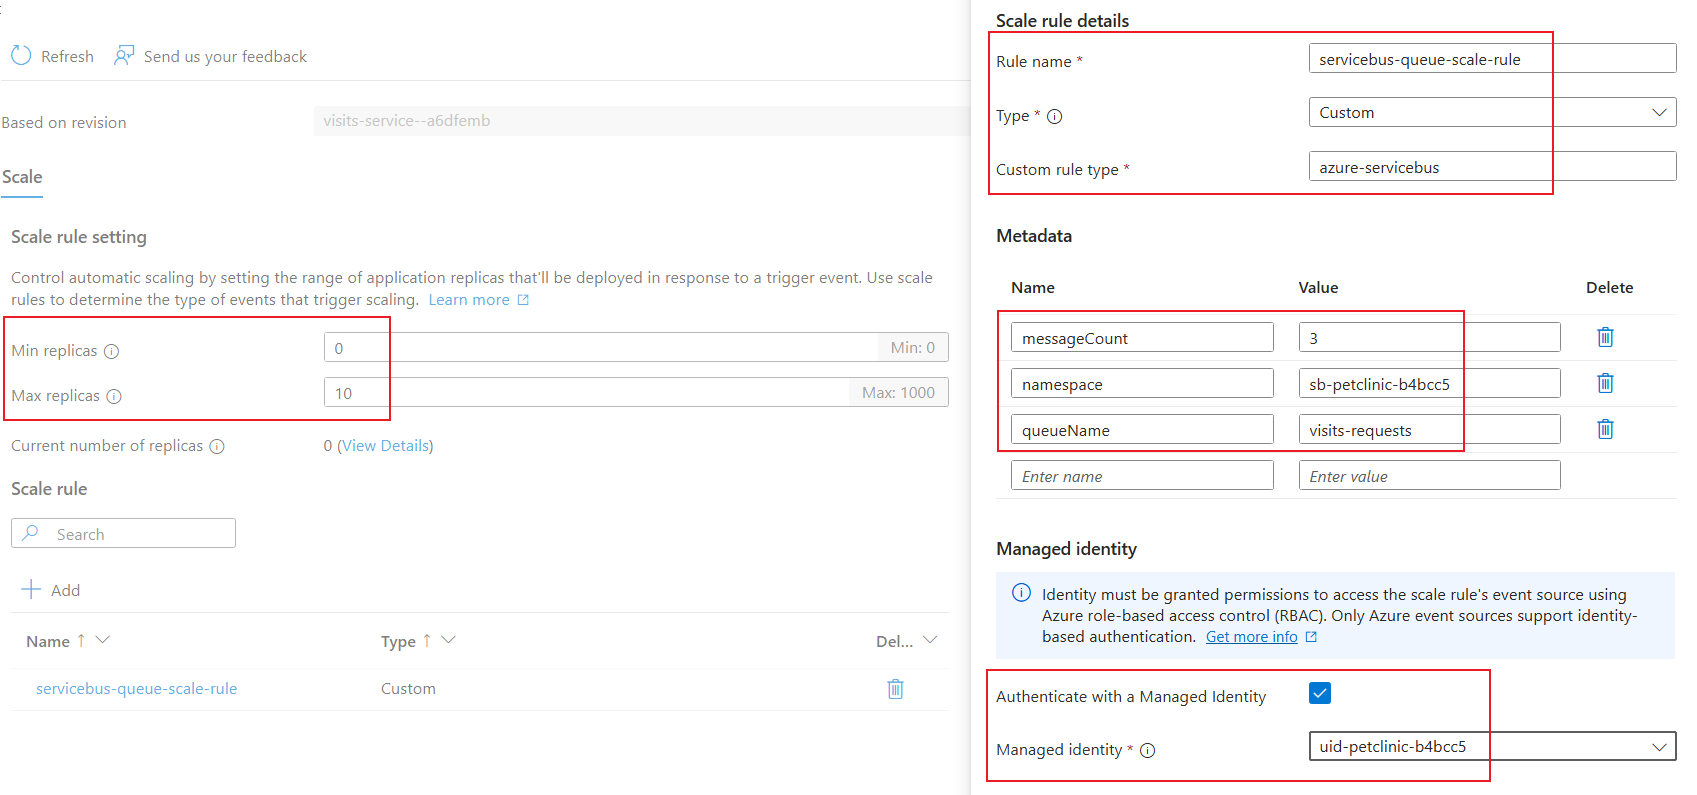
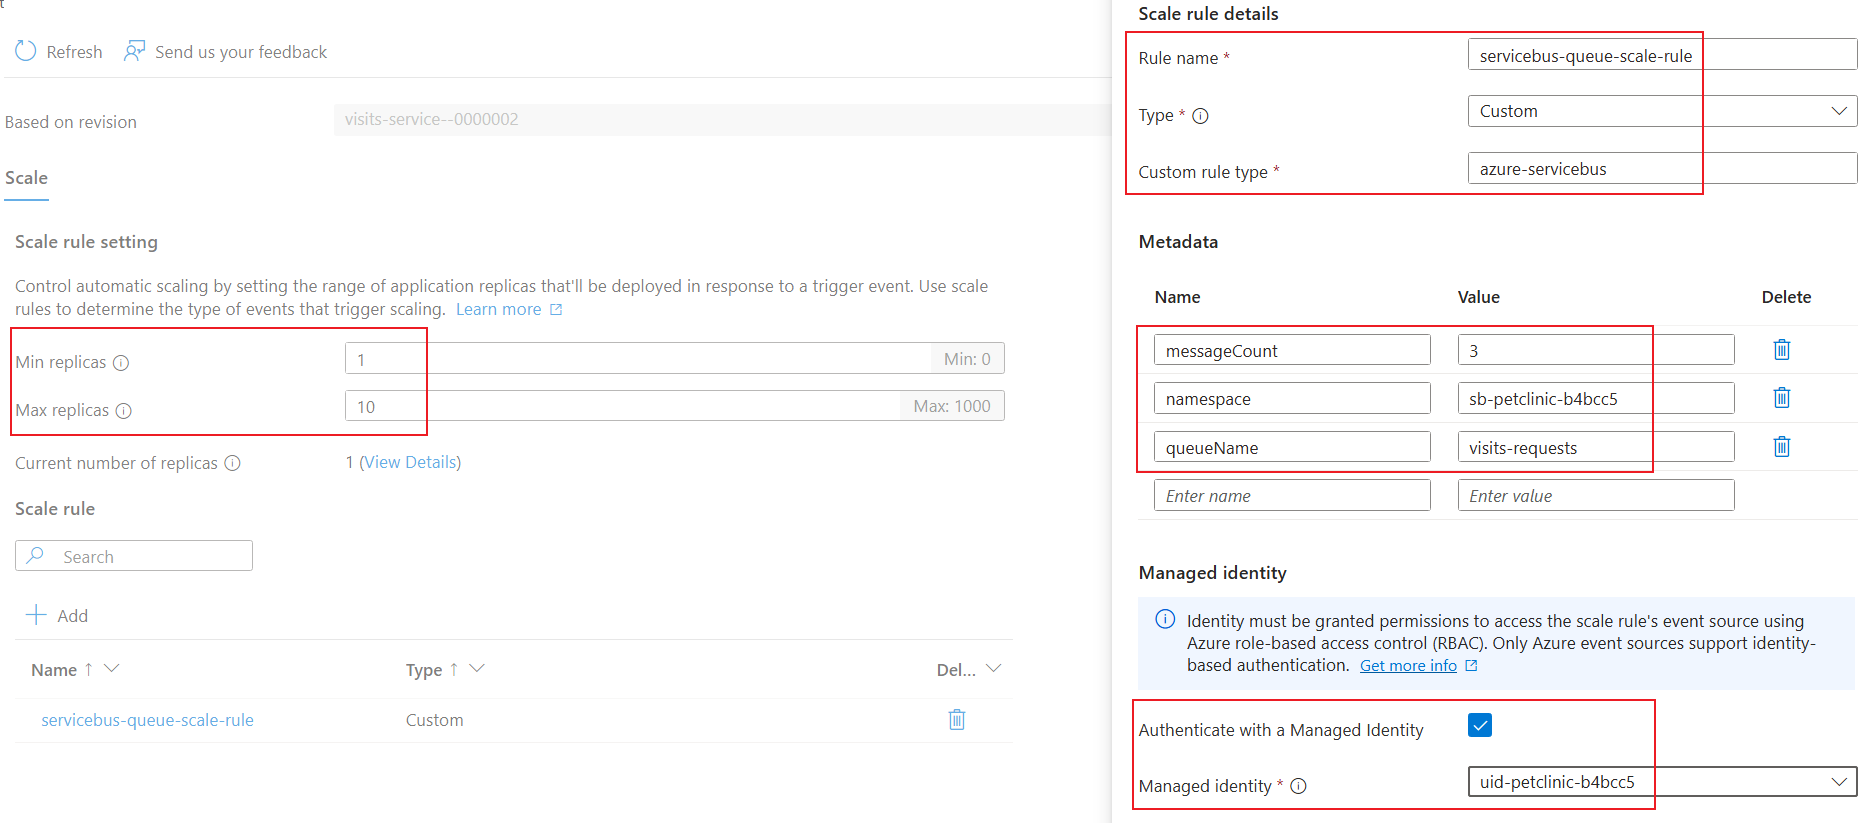
Fix: visits-service scale down to one, not zero (#103)
## Purpose

If `visits-service` scales down to zero, we will meet the error `503
Service Unavailable` when calling it via api-gateway.
This is because that the spring cloud gateway internally use Eureka
Service Discovery to discover the instance. When scaled to zero, it will
be considered as no such instance.

## Does this introduce a breaking change?
<!-- Mark one with an "x". -->
```
[ ] Yes
[ ] No
```

## Pull Request Type
What kind of change does this Pull Request introduce?

<!-- Please check the one that applies to this PR using "x". -->
```
[ ] Bugfix
[ ] Feature
[ ] Code style update (formatting, local variables)
[ ] Refactoring (no functional changes, no api changes)
[ ] Documentation content changes
[ ] Other... Please describe:
```

## How to Test
*  Get the code

```
git clone [repo-address]
cd [repo-name]
git checkout [branch-name]
npm install
```

* Test the code
<!-- Add steps to run the tests suite and/or manually test -->
```
```

## What to Check
Verify that the following are valid
* ...

## Other Information
<!-- Add any other helpful information that may be needed here. -->

diff --git a/docs/11_lab_scale/1102.md b/docs/11_lab_scale/1102.md
@@ -7,7 +7,7 @@ parent: 'Lab 11: Set up autoscaling for microservices on ACA'
 
 # Set up a custom scaling rule
 
-In addition to the HTTP scaling rule, you can also configure a custom scaling rule based on any [ScaledJob](https://keda.sh/docs/2.15/concepts/scaling-jobs/)-based [KEDA scalers](https://keda.sh/docs/2.15/scalers/). The example below demonstrates how to set up an [Azure Service Bus scaler](https://keda.sh/docs/2.15/scalers/azure-service-bus/) for the `visits-service` container app. Once configured, you can send batch messages to the message queue and observe the auto-scaling behavior of the `visits-service` replicas. After a period of inactivity (no incoming message), you can see the replicas scaling down to zero.
+In addition to the HTTP scaling rule, you can also configure a custom scaling rule based on any [ScaledJob](https://keda.sh/docs/2.15/concepts/scaling-jobs/)-based [KEDA scalers](https://keda.sh/docs/2.15/scalers/). The example below demonstrates how to set up an [Azure Service Bus scaler](https://keda.sh/docs/2.15/scalers/azure-service-bus/) for the `visits-service` container app. Once configured, you can send batch messages to the message queue and observe the auto-scaling behavior of the `visits-service` replicas. After a period of inactivity (no incoming message), you can see the replicas scaling down to minimum number.
 
 ## Step by step guidance
 
@@ -22,7 +22,7 @@ In addition to the HTTP scaling rule, you can also configure a custom scaling ru
    az containerapp update \
      --name $APP_NAME \
      --resource-group $RESOURCE_GROUP \
-     --min-replicas 0 \
+     --min-replicas 1 \
      --max-replicas 10 \
      --scale-rule-name servicebus-queue-scale-rule \
      --scale-rule-type azure-servicebus \
@@ -79,5 +79,5 @@ In addition to the HTTP scaling rule, you can also configure a custom scaling ru
 1. Navigate to the portal of the container app `visits-service`, expand **Application** and select **Revisions and replicas**, then select **Replicas** tab. You can see the container app now has more than one replica running.
 ![service bus rule scale out](../../images/lab11_service_bus_rule_scale_out.png)
 
-1. After low incoming requests for 300 seconds (scale down stabilization window), the replicas will gradually scale down to low count. If there are no further incoming requests for 300 seconds (cool down period), the replicas will eventually scale down to zero. You can also observe the revision status as **Scaled to zero** in the Azure portal.
+1. After low incoming requests for 300 seconds (scale down stabilization window), the replicas will gradually scale down to low count. If there are no further incoming requests for 300 seconds (cool down period), the replicas will eventually scale down to minimum number. You can also observe the replica details in the Azure portal.
 ![service bus rule scale in](../../images/lab11_service_bus_rule_scale_in.png)
